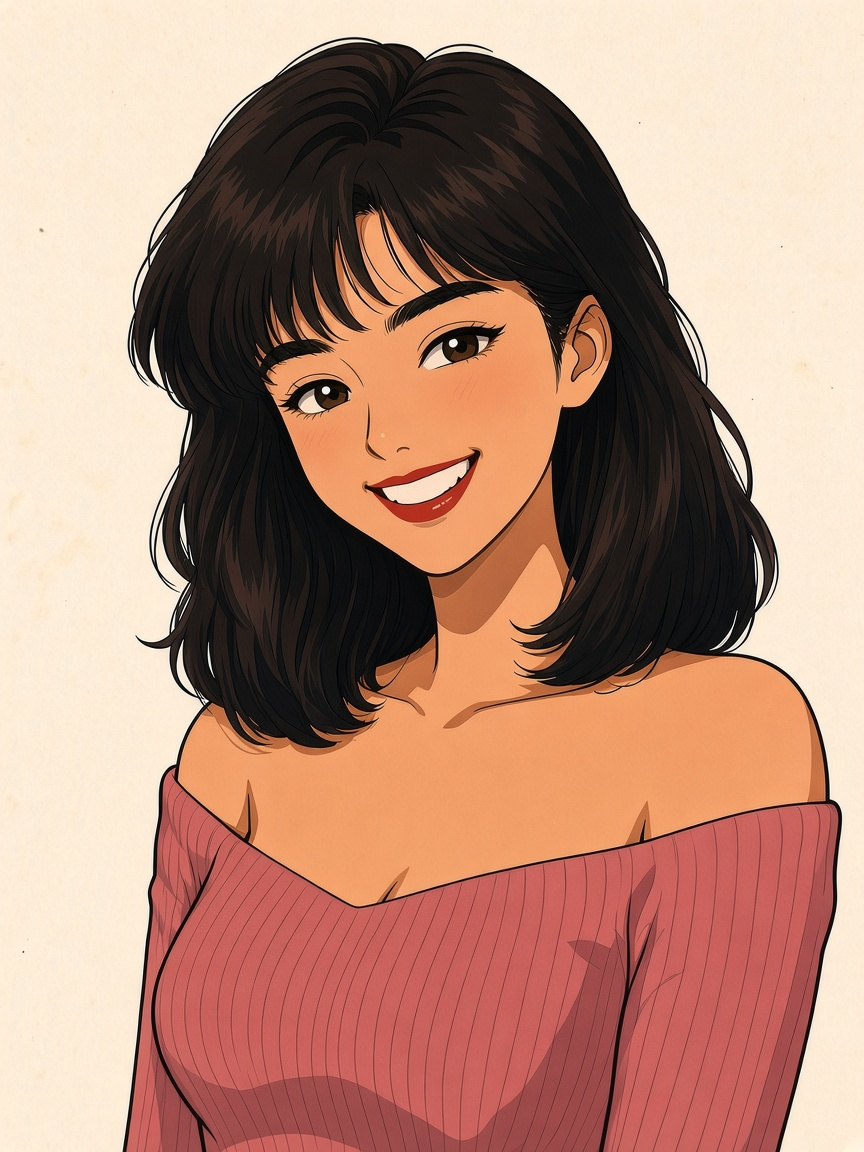
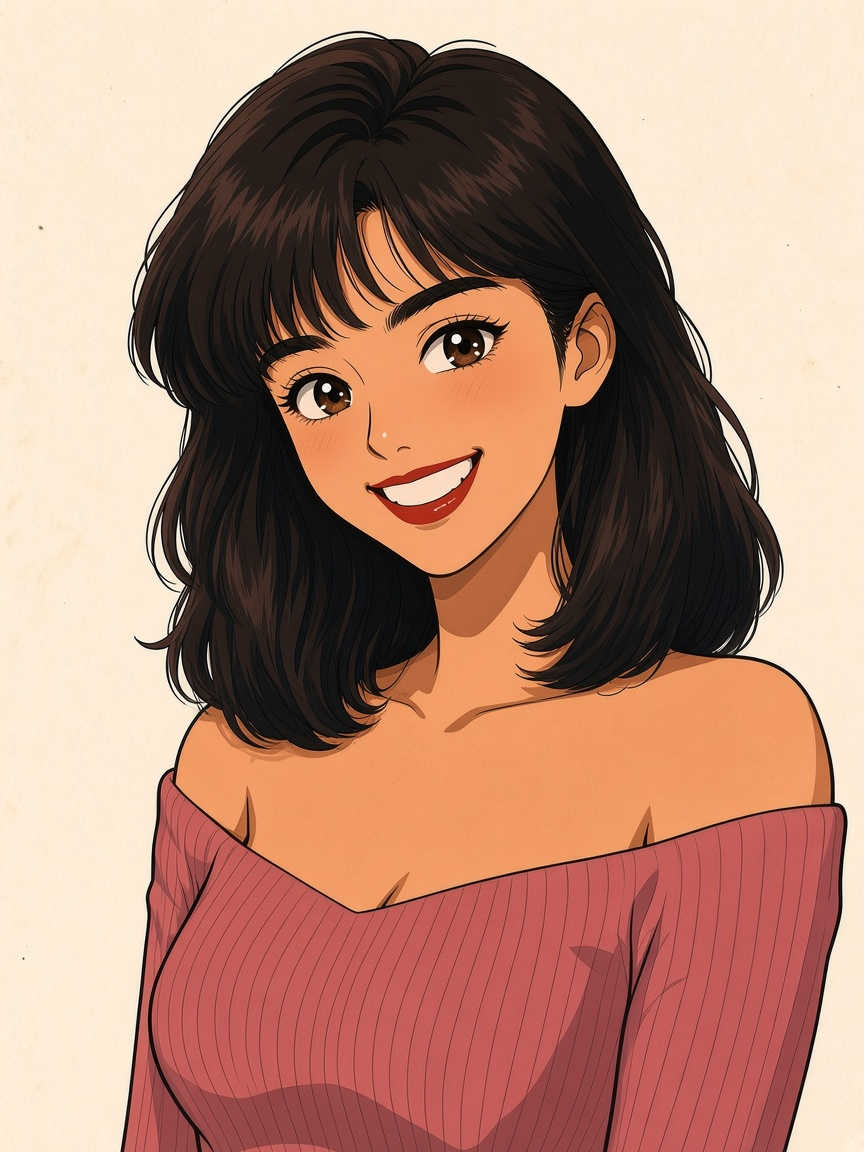
Soft: yip 能量 Soft nit
Replace only yip_manji bust default and smile. Frown stays locked.
SAVE and ?v= stay 19w. Soft≠PASS. Do not tip LIVE.

diff --git a/assets/story/era_stars/MANIFEST.md b/assets/story/era_stars/MANIFEST.md
@@ -4,7 +4,7 @@
 > **Brief：** `content/ART_BRIEF_MVP_ERA_STARS_v1.md`  
 > **LOOKS：** `content/PLAN_CHAR_LOOKS_REF_v1.md` §C  
 > **Pipeline：** cursor **GenerateImage**（refs `hero_awi.jpg`＋`char_hero_bust_default.png`）→ Pillow cover-crop **864×1152** PNG  
-> **狀態：** **Soft tip 2026-11-05** — **luk leather v5b**＋**liu chow-vibe v10**＋**yip starlet-v3**＋**so jade-v4**＋**ngai kara-v5**（各 bust×3）。5 人 ×3 表情＝15 live bust。ngai kara-v2 已由 kara-v5 取代，唔再係 live。**Soft nits expr** 已換 so smile／luk smile／ngai×3（bak `bak_pre_soft_nits_expr_20261105/` 唔入本 PR）。**so energy Soft nit** 已換 default＋smile（frown 未動；bak 唔入本 PR）。**ngai age Soft nit** 已換×3（kara-v5 低馬尾＋navy zip 鎖；bak 唔入本 PR）。**silhouettes v2** 5／5 `*_silhouette_far.png` 已入 Soft（bak 唔入本 PR）。**sil Soft polish×3** 已換 yip／so／luk `*_silhouette_far.png`（liu sil 未動；ngai sil 當時未動；bak `bak_pre_silhouette_soft_polish_20261105/` 唔入本 PR）。**ngai zip sil Soft nit** 已換 `ngai_wingnaam_silhouette_far.png`（高領 zip／低馬尾／理領；bak `bak_pre_ngai_zip_sil_soft_nit_20261105/` 唔入本 PR）。**yip／liu smile↔default Soft nit** 已換 yip／liu bust default＋smile（yip frown 未動；bak `bak_pre_yip_liu_smile_default_soft_nit_20261105/` 唔入本 PR）。**liu frown Soft nit** 已換 `liu_bingxing_bust_frown.png`（舊 `11582108`；bak `bak_pre_liu_frown_soft_nit_20261105/` 唔入本 PR）。挑眉 `raise_brow` 後排、唔動。Soft≠PASS；**唔 tip LIVE**；**1989–1992 HOLD**；`?v=` 仍 `19w`；SAVE `starVolunteer_map_v19w`
+> **狀態：** **Soft tip 2026-11-05** — **luk leather v5b**＋**liu chow-vibe v10**＋**yip starlet-v3**＋**so jade-v4**＋**ngai kara-v5**（各 bust×3）。5 人 ×3 表情＝15 live bust。ngai kara-v2 已由 kara-v5 取代，唔再係 live。**Soft nits expr** 已換 so smile／luk smile／ngai×3（bak `bak_pre_soft_nits_expr_20261105/` 唔入本 PR）。**so energy Soft nit** 已換 default＋smile（frown 未動；bak 唔入本 PR）。**ngai age Soft nit** 已換×3（kara-v5 低馬尾＋navy zip 鎖；bak 唔入本 PR）。**silhouettes v2** 5／5 `*_silhouette_far.png` 已入 Soft（bak 唔入本 PR）。**sil Soft polish×3** 已換 yip／so／luk `*_silhouette_far.png`（liu sil 未動；ngai sil 當時未動；bak `bak_pre_silhouette_soft_polish_20261105/` 唔入本 PR）。**ngai zip sil Soft nit** 已換 `ngai_wingnaam_silhouette_far.png`（高領 zip／低馬尾／理領；bak `bak_pre_ngai_zip_sil_soft_nit_20261105/` 唔入本 PR）。**yip／liu smile↔default Soft nit** 已換 yip／liu bust default＋smile（yip frown 未動；bak `bak_pre_yip_liu_smile_default_soft_nit_20261105/` 唔入本 PR）。**liu frown Soft nit** 已換 `liu_bingxing_bust_frown.png`（舊 `11582108`；bak `bak_pre_liu_frown_soft_nit_20261105/` 唔入本 PR）。**yip energy Soft nit** 已換 `yip_manji` bust default＋smile（frown `9d7e2b8e` 未動；bak `bak_pre_yip_energy_soft_nit_20261105/` 唔入本 PR）。挑眉 `raise_brow` 後排、唔動。Soft≠PASS；**唔 tip LIVE**；**1989–1992 HOLD**；`?v=` 仍 `19w`；SAVE `starVolunteer_map_v19w`
 
 ## Style-lock MD5（installed live）
 
@@ -22,16 +22,16 @@
 | `so_jiyan_bust_default.png` | `2cc1a57050e1bf20d847d87938d1c1d0` |
 | `so_jiyan_bust_frown.png` | `f0c0347ebfb54d00993428404ab2e231` |
 | `so_jiyan_bust_smile.png` | `e57ab12a1329850c0b544a92fdd2ea46` |
-| `yip_manji_bust_default.png` | `b338280bdf931f14477ec89eaf0d8fa8` |
+| `yip_manji_bust_default.png` | `0838406843ff27e2d1e82aa83672a4d4` |
 | `yip_manji_bust_frown.png` | `9d7e2b8ea12a6cd8bfcf92972cba34d9` |
-| `yip_manji_bust_smile.png` | `6e7b1a2b373e7518617e6bd5b21e51b1` |
+| `yip_manji_bust_smile.png` | `f1688fb4b42020a58532f3bf38de8dc2` |
 
 ## Inventory
 
 | id | display | files | dims | notes |
 |---|---|---|---|---|
 | `luk_baakyin` | 陸柏言 | `*_bust_{default,smile,frown}.png` + `*_silhouette_far.png`（**sil Soft polish**） | 864×1152 | **leather v5b**＋**smile Soft nit 2026-11-05**（露齒酒窩）＋**frown Soft nit 2026-11-05**（深 V 皺眉＋下撇嘴；MD5 `d379b322`）。default `f0bc02d8`／smile `202a6200` 唔動。sil Soft polish（quiff↑；MD5 `194f29f2`）。bak `bak_pre_luk_leather_v5/`＋`bak_pre_soft_nits_expr_20261105/`＋`bak_pre_luk_frown_soft_nit_20261105/` 留盤，唔入本 PR |
-| `yip_manji` | 葉敏芝 | bust×3 + sil **Soft polish** | 864×1152 | **starlet-v3 2026-11-05**：露肩 dusty-rose；邱淑貞／張敏氣質（禁抄臉）；GenerateImage。**smile↔default Soft nit 2026-11-05**（default 更中性閉唇 MD5 `b338280b`／smile 露齒 MD5 `6e7b1a2b`；frown `9d7e2b8e` 未動）。sil Soft polish（露肩／bare-arm；MD5 `41ef7a1f`）。bak `bak_pre_yip_starlet_v3/`＋`bak_pre_yip_liu_smile_default_soft_nit_20261105/` 留盤，唔入本 PR |
+| `yip_manji` | 葉敏芝 | bust×3 + sil **Soft polish** | 864×1152 | **starlet-v3 2026-11-05**：露肩 dusty-rose；邱淑貞／張敏氣質（禁抄臉）；GenerateImage。**smile↔default Soft nit 2026-11-05**（當時 default `b338280b`／smile `6e7b1a2b`）。**energy Soft nit 2026-11-05**（default 嬌俏眨眼＋閉唇嘴形清晰 MD5 `08384068`／smile 露齒眼閃↑ MD5 `f1688fb4`；frown `9d7e2b8e` 未動）。sil Soft polish（露肩／bare-arm；MD5 `41ef7a1f`）。bak `bak_pre_yip_starlet_v3/`＋`bak_pre_yip_liu_smile_default_soft_nit_20261105/`＋`bak_pre_yip_energy_soft_nit_20261105/` 留盤，唔入本 PR |
 | `so_jiyan` | 蘇芷茵 | bust×3 + `*_silhouette_far.png`（**sil Soft polish**） | 864×1152 | **jade-v4**＋**energy Soft nit 2026-11-05**（default＋smile 更有精神／眼閃；MD5 `2cc1a570`／`e57ab12a`）。frown `f0c0347e` 未動。sil Soft polish（肘外＋手前；MD5 `720e3473`）。bak `bak_pre_so_jade_v4/`＋`bak_pre_soft_nits_expr_20261105/`＋`bak_pre_so_energy_soft_nit_20261105/` 留盤，唔入本 PR |
 | `liu_bingxing` | 廖炳星 | bust×3 + sil **v2** | 864×1152 | **chow-vibe v10 2026-11-05**：花恤衫正面；周星馳氣質（禁抄臉）；GenerateImage。**smile↔default Soft nit 2026-11-05**（default 閉唇微翹 MD5 `f39379d5`／smile 露齒壞笑 MD5 `3b3c7fb4`）。**frown Soft nit 2026-11-05**（吃癟下撇＋夾眉；MD5 `82edc37f`；舊 `11582108`）。bak `bak_pre_liu_chow_v10/`＋`bak_pre_yip_liu_smile_default_soft_nit_20261105/`＋`bak_pre_liu_frown_soft_nit_20261105/` 留盤，唔入本 PR |
 | `ngai_wingnaam` | 魏詠男 | bust×3 + sil **zip Soft nit** | 864×1152 | **kara-v5**＋**age Soft nit 2026-11-05×3**（晚三十讀齡↑；低馬尾＋navy zip 統一；MD5 `09f79211`／`8f1abdaf`／`5df4f5fa`）。kara-v2 唔再係 live。sil zip Soft nit（高領 zip／低馬尾／理領；MD5 `899c7f7d`；v2 `31555755`）。bak `bak_pre_ngai_kara_v5/`＋`bak_pre_soft_nits_expr_20261105/`＋`bak_pre_ngai_age_soft_nit_20261105/`＋`bak_pre_ngai_zip_sil_soft_nit_20261105/` 留盤，唔入本 PR |
@@ -58,7 +58,7 @@
 1. `luk_baakyin` smile Soft nit **2026-11-05 已換**（露齒＋酒窩；MD5 `202a6200`）；**frown Soft nit 2026-11-05 已換**（深 V 皺眉＋鼻樑壓＋下撇嘴；MD5 `d379b322`；對開 default smirk／smile 露齒）。Soft nits（唔擋）：怒氣線可再強；眉峰 V 可再銳  
 2. `so_jiyan` **energy Soft nit 2026-11-05 已換** default＋smile（MD5 `2cc1a570`／`e57ab12a`；閉唇淺笑＋眼神／smile 露齒眼閃；frown `f0c0347e` 未動）。Soft nits（唔擋）：default 嘴角仍偏親切微笑（可選再收、專推眼閃）；modern polish 線密度；default NEW RGB vs bak RGBA（尺寸／構圖 OK，記帳 only）  
 3. `ngai_wingnaam` **age Soft nit 2026-11-05 已換×3**（default／smile／frown MD5 `09f79211`／`8f1abdaf`／`5df4f5fa`；晚三十 cel 紋／顎線；kara-v5 低馬尾＋navy zip）。kara-v2 唔再係 live。Soft nits（唔擋）：smile 年齡線略重；default 可讀略過 38；髮絲 modern polish；zip vs brief sil（本輪未改 sil）  
-4. `yip_manji` **smile↔default Soft nit 2026-11-05 已換** default＋smile（MD5 `b338280b`／`6e7b1a2b`；default 更中性閉唇、smile 露齒更開；frown `9d7e2b8e` 未動）。starlet-v3 露肩 dusty-rose 鎖。Soft nits（唔擋）：default 仍可讀極淡嘴角（可選再收至完全中性／咬唇眨眼能量）  
+4. `yip_manji` **smile↔default Soft nit 2026-11-05 已換**（當時 MD5 `b338280b`／`6e7b1a2b`；default 更中性閉唇、smile 露齒更開）。**energy Soft nit 2026-11-05 已換** default＋smile（MD5 `08384068`／`f1688fb4`；default 嬌俏眨眼＋閉唇嘴形清晰／咬唇－微 smirk；smile 更開／更暖露齒＋眼閃↑；frown `9d7e2b8e` 未動；對開 tip #30 `b338280b`／`6e7b1a2b`）。starlet-v3 露肩 dusty-rose 鎖。Soft nits（唔擋）：wink 可偏強；微 smirk；線密度／modern polish  
 5. `liu_bingxing` **smile↔default Soft nit 2026-11-05 已換** default＋smile（MD5 `f39379d5`／`3b3c7fb4`；default 閉唇微翹、唔再露齒 smirk；smile 露齒壞笑）。**frown Soft nit 2026-11-05 已換**（MD5 `82edc37f`；吃癟下撇＋夾眉；對開 default 微翹／smile 露齒；舊 `11582108`）。chow-vibe v10 花恤衫鎖。yip frown `9d7e2b8e` 未動。Soft nits（唔擋）：下巴 hatch；吃癟弧略誇；線密度／modern polish  
 6. 整體略 modern polished anime／manhwa 線密度（同 core Soft nit），仍係平面 2D 家族——非先前半寫實漂移  
 7. Prompt 禁真藝名；LOOKS 靈感只作氣質／wardrobe  
@@ -72,7 +72,7 @@
 
 ## Gates
 
-Soft≠PASS｜唔 tip LIVE｜唔 wake iOS｜89–92 HOLD｜silhouettes v2 Soft tip（遠觀只限 Soft gate）｜sil Soft polish×3（yip／so／luk）｜ngai zip sil Soft nit（liu／yip／so／luk sil 未動）｜expr nits Soft tip｜so energy Soft nit（default＋smile；frown 未動）｜ngai age Soft nit×3｜yip／liu smile↔default Soft nit（default＋smile；yip frown 未動）｜liu frown Soft nit｜raise_brow 後排｜`?v=` 仍 `19w`｜SAVE `starVolunteer_map_v19w`
+Soft≠PASS｜唔 tip LIVE｜唔 wake iOS｜89–92 HOLD｜silhouettes v2 Soft tip（遠觀只限 Soft gate）｜sil Soft polish×3（yip／so／luk）｜ngai zip sil Soft nit（liu／yip／so／luk sil 未動）｜expr nits Soft tip｜so energy Soft nit（default＋smile；frown 未動）｜ngai age Soft nit×3｜yip／liu smile↔default Soft nit（default＋smile；yip frown 未動）｜liu frown Soft nit｜yip energy Soft nit（default＋smile；frown 未動）｜raise_brow 後排｜`?v=` 仍 `19w`｜SAVE `starVolunteer_map_v19w`
 
 ## Pack
 
@@ -105,6 +105,8 @@ Soft≠PASS｜唔 tip LIVE｜唔 wake iOS｜89–92 HOLD｜silhouettes v2 Soft t
 `/workspace/star-volunteer-web-yip-liu-smile-default-soft-nit.tar.gz`（只換 live `yip_manji`／`liu_bingxing` bust default＋smile；`bak_pre_yip_liu_smile_default_soft_nit_20261105/`、QA composite／QA md 唔入本 PR）
 
 `/workspace/star-volunteer-web-liu-frown-soft-nit.tar.gz`（只換 live `liu_bingxing_bust_frown.png`；`bak_pre_liu_frown_soft_nit_20261105/`、QA composite／QA md 唔入本 PR）
+
+`/workspace/star-volunteer-web-yip-energy-soft-nit.tar.gz`（只換 live `yip_manji_bust_default.png`＋`yip_manji_bust_smile.png`；`bak_pre_yip_energy_soft_nit_20261105/`、QA composite／QA md 唔入本 PR）
 
 ## Related
 
@@ -173,3 +175,12 @@ Soft≠PASS｜唔 tip LIVE｜唔 wake iOS｜89–92 HOLD｜silhouettes v2 Soft t
 - Soft nits（唔擋 Soft tip）：下巴 hatch；吃癟弧略誇；線密度／modern polish。連同既有：yip default 極淡嘴角；modern polish；sil light-edge 後排
 - QC：統籌 Style PASS with nits。Soft≠PASS｜唔 tip LIVE｜唔抬 ?v=｜89–92 HOLD
 - Pack：`/workspace/star-volunteer-web-liu-frown-soft-nit.tar.gz` MD5 `95ac38ba3579afe88c63a6a1d186deb7`
+
+## yip energy Soft nit 2026-11-05 (Asia/Hong_Kong)
+- 只換 live：`yip_manji_bust_default.png` MD5 `0838406843ff27e2d1e82aa83672a4d4`；`yip_manji_bust_smile.png` MD5 `f1688fb4b42020a58532f3bf38de8dc2`（864×1152 RGB）
+- 唔動：frown `9d7e2b8ea12a6cd8bfcf92972cba34d9`。唔改 liu／so／ngai／luk bust、silhouettes、`index.html`、gigs
+- 對開 tip #30：default `b338280bdf931f14477ec89eaf0d8fa8`；smile `6e7b1a2b373e7518617e6bd5b21e51b1`。bak `bak_pre_yip_energy_soft_nit_20261105/` 留盤、唔入本 PR
+- 目標：default 嬌俏眨眼＋閉唇嘴形更清晰／咬唇－微 smirk 能量；smile 更開／更暖露齒＋眼閃↑。starlet-v3 露肩 dusty-rose／cel／identity 鎖。≠so／ngai
+- Soft nits（唔擋 Soft tip）：wink 可偏強；微 smirk；線密度／modern polish
+- QC：統籌 Style PASS with nits。Soft≠PASS｜唔 tip LIVE｜唔抬 ?v=｜89–92 HOLD
+- Pack：`/workspace/star-volunteer-web-yip-energy-soft-nit.tar.gz` MD5 `77ab9fa9c12e29f7af3b25b16a82ed82`

diff --git a/assets/STYLE_CANON.md b/assets/STYLE_CANON.md
@@ -65,6 +65,8 @@
 
 - 2026-11-05 liu frown Soft nit：`liu_bingxing_bust_frown` 吃癟下撇對開 default／smile（chow-vibe v10 wardrobe／cel-shade lock；default `f39379d5`／smile `3b3c7fb4` 未動；yip frown `9d7e2b8e` 未動）；GenerateImage；bak `era_stars/bak_pre_liu_frown_soft_nit_20261105/` 留盤、唔入本 PR；pack `/workspace/star-volunteer-web-liu-frown-soft-nit.tar.gz`；併入同一 Soft tip；Soft≠PASS；唔 tip LIVE；`?v=` 仍 `19w`；89–92 HOLD。
 
+- 2026-11-05 yip energy Soft nit：`yip_manji_bust_{default,smile}` 嬌俏眨眼／咬唇能量＋smile 更暖露齒眼閃↑（starlet-v3 露肩 dusty-rose／cel-shade lock；frown `9d7e2b8e` 未動；對開 tip #30 default `b338280b`／smile `6e7b1a2b`；live MD5 `08384068`／`f1688fb4`）；GenerateImage；bak `era_stars/bak_pre_yip_energy_soft_nit_20261105/` 留盤、唔入本 PR；pack `/workspace/star-volunteer-web-yip-energy-soft-nit.tar.gz` MD5 `77ab9fa9`；Soft≠PASS；唔 tip LIVE；`?v=` 仍 `19w`；89–92 HOLD。
+
 ## raise_brow Soft nit（2026-11-05 Asia/Hong_Kong）
 
 - 已換：`char_hero_bust_raise_brow.png` MD5 `59dab337`；`char_cheung_bust_raise_brow.png` MD5 `8a8d01a9`（c1／story／dialog／npc 四路同 MD5）
@@ -140,3 +142,13 @@
 - Soft nits（唔擋 Soft tip）：下巴 hatch；吃癟弧略誇；線密度／modern polish。連同既有：yip default 極淡嘴角；modern polish；sil light-edge 後排
 - Soft≠PASS；唔 tip LIVE；`?v=` 仍 `19w`；SAVE `starVolunteer_map_v19w`；89–92 HOLD
 - Pack：`/workspace/star-volunteer-web-liu-frown-soft-nit.tar.gz` MD5 `95ac38ba3579afe88c63a6a1d186deb7`
+
+## yip energy Soft nit（2026-11-05 Asia/Hong_Kong）
+
+- 只換：`story/era_stars/yip_manji_bust_default.png` MD5 `08384068`；`yip_manji_bust_smile.png` MD5 `f1688fb4`（864×1152 RGB）
+- 唔動：frown `9d7e2b8e`。唔改 liu／so／ngai／luk bust、silhouettes、`index.html`、gigs。starlet-v3 露肩 dusty-rose／cel-shade lock。Pipeline：GenerateImage → 864×1152 RGB
+- 對開 tip #30：default `b338280b`／smile `6e7b1a2b`。bak `era_stars/bak_pre_yip_energy_soft_nit_20261105/` 留盤、唔入本 PR
+- 目標：default 嬌俏眨眼＋閉唇嘴形更清晰／咬唇－微 smirk 能量；smile 更開／更暖露齒＋眼閃↑。≠so／ngai
+- Soft nits（唔擋 Soft tip）：wink 可偏強；微 smirk；線密度／modern polish
+- QC：統籌 Style PASS with nits。Soft≠PASS；唔 tip LIVE；`?v=` 仍 `19w`；SAVE `starVolunteer_map_v19w`；89–92 HOLD
+- Pack：`/workspace/star-volunteer-web-yip-energy-soft-nit.tar.gz` MD5 `77ab9fa9c12e29f7af3b25b16a82ed82`
